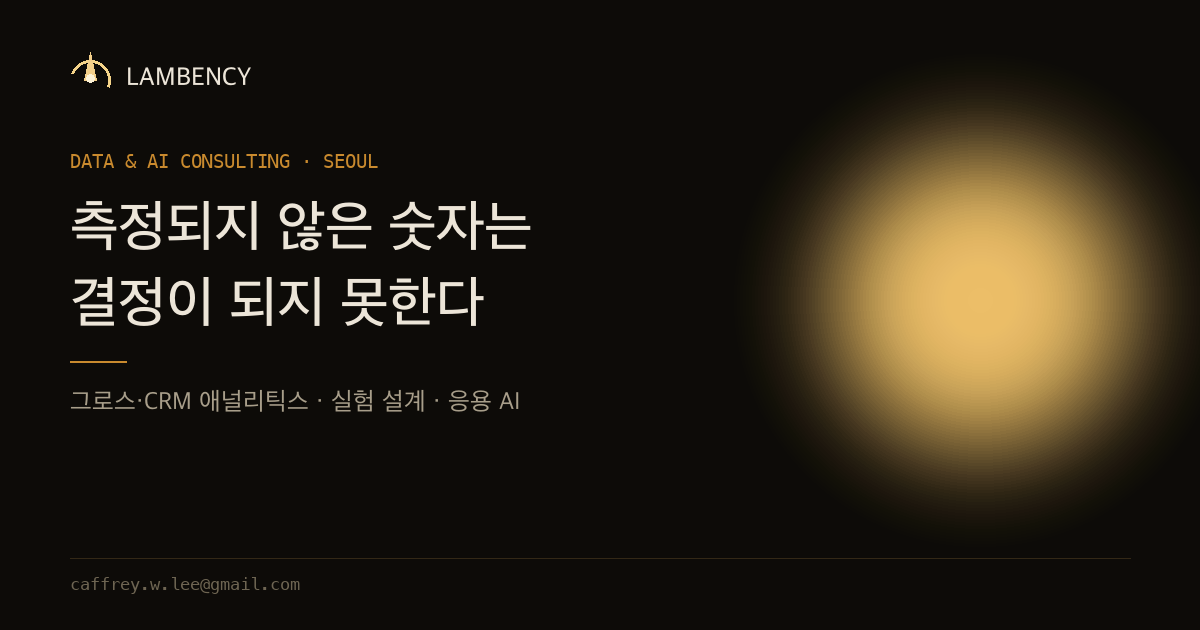
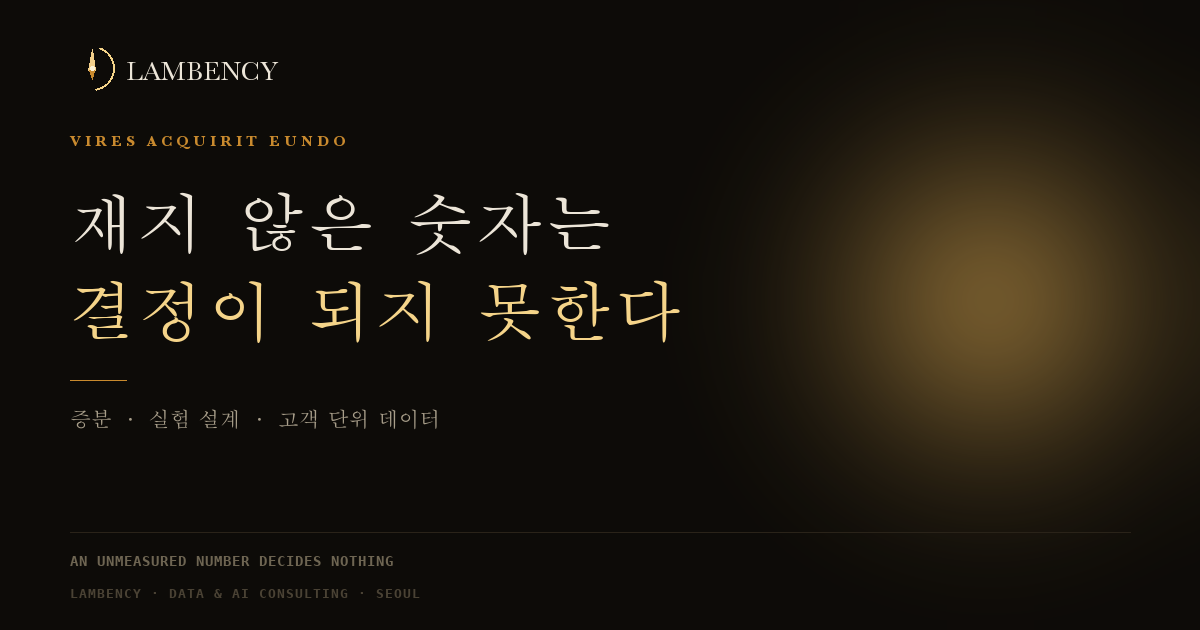
OG 카드 재작업 — 명조 잠언 판(版), 한·영 2종
문구: "측정되지 않은 숫자는 결정이 되지 않는다"
   → "재지 않은 숫자는 결정이 되지 못한다"
   · 측정→재다: '측정된 숫자'가 동어반복이라 고유어로. 4자 짧아져 잠언 리듬이 생김
   · 않는다→못한다: 단순 부정이 아니라 자격 없음으로

판: 산세리프 → 세리프(한글 명조 / 영문 Baskerville SemiBold, 웨이트 대응),
    자간 확대, 상단 라틴 모토·하단 반대 언어 각인. 서비스 나열은 설명적이라 제거.

- assets/og-en.png 신설 — 영문 페이지 전용 카드
- 기본 언어가 en인 index·engagements의 og:locale이 ko_KR로 어긋나 있던 것 수정,
  og:description도 한국어였던 것을 영문으로 교체
- 카드 배정: /blog/ 한국어판 → og-default.png, 그 외 전부 → og-en.png

diff --git a/index.html b/index.html
@@ -9,17 +9,18 @@
 <!-- Open Graph / 링크 공유 미리보기 -->
 <meta property="og:type" content="website">
 <meta property="og:site_name" content="Lambency">
-<meta property="og:locale" content="ko_KR">
+<meta property="og:locale" content="en_US">
+<meta property="og:locale:alternate" content="ko_KR">
 <meta property="og:url" content="https://lambency-data.github.io/">
 <meta property="og:title" content="Lambency — Data & AI Consulting">
-<meta property="og:description" content="서울의 1인 데이터·AI 컨설팅. 그로스·CRM 애널리틱스, 실험 설계, 프로덕션 LLM 에이전트. 실측한 숫자만 씁니다.">
-<meta property="og:image" content="https://lambency-data.github.io/assets/og-default.png">
+<meta property="og:description" content="A one-person data and AI consultancy in Seoul. Growth and CRM analytics, experiment design, and LLM agents that run in production. Every number is traced to its source.">
+<meta property="og:image" content="https://lambency-data.github.io/assets/og-en.png">
 <meta property="og:image:width" content="1200">
 <meta property="og:image:height" content="630">
 <meta name="twitter:card" content="summary_large_image">
 <meta name="twitter:title" content="Lambency — Data & AI Consulting">
-<meta name="twitter:description" content="서울의 1인 데이터·AI 컨설팅. 그로스·CRM 애널리틱스, 실험 설계, 프로덕션 LLM 에이전트. 실측한 숫자만 씁니다.">
-<meta name="twitter:image" content="https://lambency-data.github.io/assets/og-default.png">
+<meta property="twitter:description" content="A one-person data and AI consultancy in Seoul. Growth and CRM analytics, experiment design, and LLM agents that run in production. Every number is traced to its source.">
+<meta name="twitter:image" content="https://lambency-data.github.io/assets/og-en.png">
 <link rel="canonical" href="https://lambency-data.github.io/">
 
 <link rel="preconnect" href="https://fonts.googleapis.com">

diff --git a/blog/en/02-traditional-liquor-ad-efficiency.html b/blog/en/02-traditional-liquor-ad-efficiency.html
@@ -14,13 +14,13 @@
 <meta property="og:url" content="https://lambency-data.github.io/blog/en/02-traditional-liquor-ad-efficiency.html">
 <meta property="og:title" content="The law opened a direct sales channel. One of six producers walked through it.">
 <meta property="og:description" content="Traditional liquor is the rare Korean drinks category the law permits to sell online. Yet only one of six producers runs a storefront of its own. The other five leave every order record on someone else's server.">
-<meta property="og:image" content="https://lambency-data.github.io/assets/og-default.png">
+<meta property="og:image" content="https://lambency-data.github.io/assets/og-en.png">
 <meta property="og:image:width" content="1200">
 <meta property="og:image:height" content="630">
 <meta name="twitter:card" content="summary_large_image">
 <meta property="twitter:title" content="The law opened a direct sales channel. One of six producers walked through it.">
 <meta property="twitter:description" content="Traditional liquor is the rare Korean drinks category the law permits to sell online. Yet only one of six producers runs a storefront of its own. The other five leave every order record on someone else's server.">
-<meta name="twitter:image" content="https://lambency-data.github.io/assets/og-default.png">
+<meta name="twitter:image" content="https://lambency-data.github.io/assets/og-en.png">
 <link rel="canonical" href="https://lambency-data.github.io/blog/en/02-traditional-liquor-ad-efficiency.html">
 <link rel="alternate" hreflang="en" href="https://lambency-data.github.io/blog/en/02-traditional-liquor-ad-efficiency.html">
 <link rel="alternate" hreflang="ko" href="https://lambency-data.github.io/blog/02-traditional-liquor-ad-efficiency.html">

diff --git a/engagements.html b/engagements.html
@@ -9,17 +9,18 @@
 <!-- Open Graph / 링크 공유 미리보기 -->
 <meta property="og:type" content="website">
 <meta property="og:site_name" content="Lambency">
-<meta property="og:locale" content="ko_KR">
+<meta property="og:locale" content="en_US">
+<meta property="og:locale:alternate" content="ko_KR">
 <meta property="og:url" content="https://lambency-data.github.io/engagements.html">
 <meta property="og:title" content="Engagements — Lambency">
-<meta property="og:description" content="Lambency가 어떤 문제를 어떤 방식으로 맡는지. 범위·기간·산출물.">
-<meta property="og:image" content="https://lambency-data.github.io/assets/og-default.png">
+<meta property="og:description" content="What Lambency takes on, and how. Scope, duration, and what you are left holding at the end.">
+<meta property="og:image" content="https://lambency-data.github.io/assets/og-en.png">
 <meta property="og:image:width" content="1200">
 <meta property="og:image:height" content="630">
 <meta name="twitter:card" content="summary_large_image">
 <meta name="twitter:title" content="Engagements — Lambency">
-<meta name="twitter:description" content="Lambency가 어떤 문제를 어떤 방식으로 맡는지. 범위·기간·산출물.">
-<meta name="twitter:image" content="https://lambency-data.github.io/assets/og-default.png">
+<meta property="twitter:description" content="What Lambency takes on, and how. Scope, duration, and what you are left holding at the end.">
+<meta name="twitter:image" content="https://lambency-data.github.io/assets/og-en.png">
 <link rel="canonical" href="https://lambency-data.github.io/engagements.html">
 
 <link rel="preconnect" href="https://fonts.googleapis.com">

diff --git a/blog/en/01-k-beauty-ad-efficiency.html b/blog/en/01-k-beauty-ad-efficiency.html
@@ -14,13 +14,13 @@
 <meta property="og:url" content="https://lambency-data.github.io/blog/en/01-k-beauty-ad-efficiency.html">
 <meta property="og:title" content="Revenue grew. Margins collapsed anyway. — eight K-beauty brands in public data">
 <meta property="og:description" content="Six of eight K-beauty brand companies grew revenue while operating margin fell in 2025. I decomposed the cause using nothing but DART audited statements. The press blamed ad spend; that is half right.">
-<meta property="og:image" content="https://lambency-data.github.io/assets/og-default.png">
+<meta property="og:image" content="https://lambency-data.github.io/assets/og-en.png">
 <meta property="og:image:width" content="1200">
 <meta property="og:image:height" content="630">
 <meta name="twitter:card" content="summary_large_image">
 <meta name="twitter:title" content="Revenue grew. Margins collapsed anyway. — eight K-beauty brands in public data">
 <meta name="twitter:description" content="Six of eight K-beauty brand companies grew revenue while operating margin fell in 2025. I decomposed the cause using nothing but DART audited statements. The press blamed ad spend; that is half right.">
-<meta name="twitter:image" content="https://lambency-data.github.io/assets/og-default.png">
+<meta name="twitter:image" content="https://lambency-data.github.io/assets/og-en.png">
 <link rel="canonical" href="https://lambency-data.github.io/blog/en/01-k-beauty-ad-efficiency.html">
 <link rel="alternate" hreflang="en" href="https://lambency-data.github.io/blog/en/01-k-beauty-ad-efficiency.html">
 <link rel="alternate" hreflang="ko" href="https://lambency-data.github.io/blog/01-k-beauty-ad-efficiency.html">

diff --git a/blog/en/index.html b/blog/en/index.html
@@ -14,13 +14,13 @@
 <meta property="og:url" content="https://lambency-data.github.io/blog/en/">
 <meta property="og:title" content="Insights — sector economics, read from public data only | Lambency">
 <meta property="og:description" content="Decomposing where profitability diverged, sector by sector, using nothing but audited filings, disclosures, job postings and page source. No internal data. What that reveals, and where it stops.">
-<meta property="og:image" content="https://lambency-data.github.io/assets/og-default.png">
+<meta property="og:image" content="https://lambency-data.github.io/assets/og-en.png">
 <meta property="og:image:width" content="1200">
 <meta property="og:image:height" content="630">
 <meta name="twitter:card" content="summary_large_image">
 <meta property="twitter:title" content="Insights — sector economics, read from public data only | Lambency">
 <meta property="twitter:description" content="Decomposing where profitability diverged, sector by sector, using nothing but audited filings, disclosures, job postings and page source. No internal data. What that reveals, and where it stops.">
-<meta name="twitter:image" content="https://lambency-data.github.io/assets/og-default.png">
+<meta name="twitter:image" content="https://lambency-data.github.io/assets/og-en.png">
 <link rel="canonical" href="https://lambency-data.github.io/blog/en/">
 <link rel="alternate" hreflang="en" href="https://lambency-data.github.io/blog/en/">
 <link rel="alternate" hreflang="ko" href="https://lambency-data.github.io/blog/">
